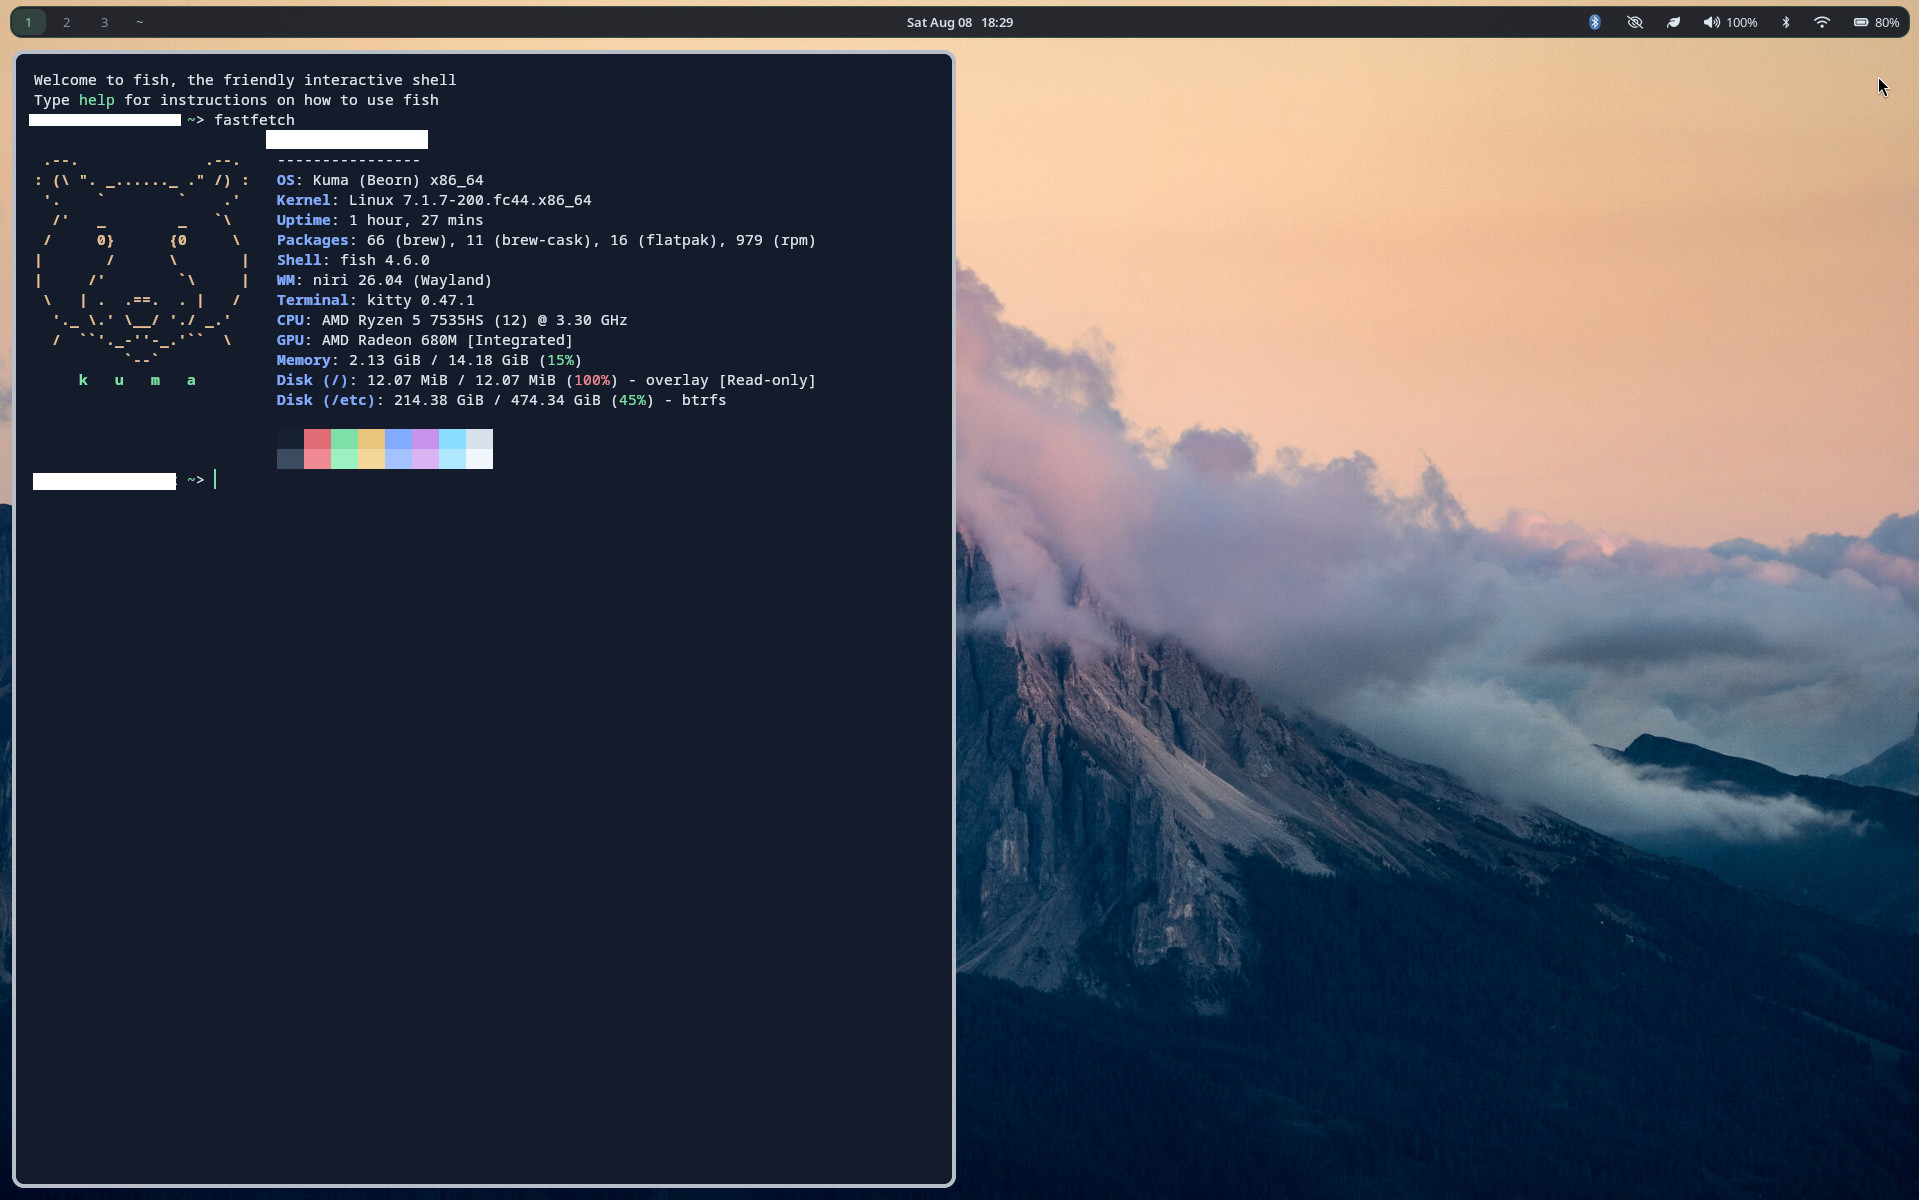
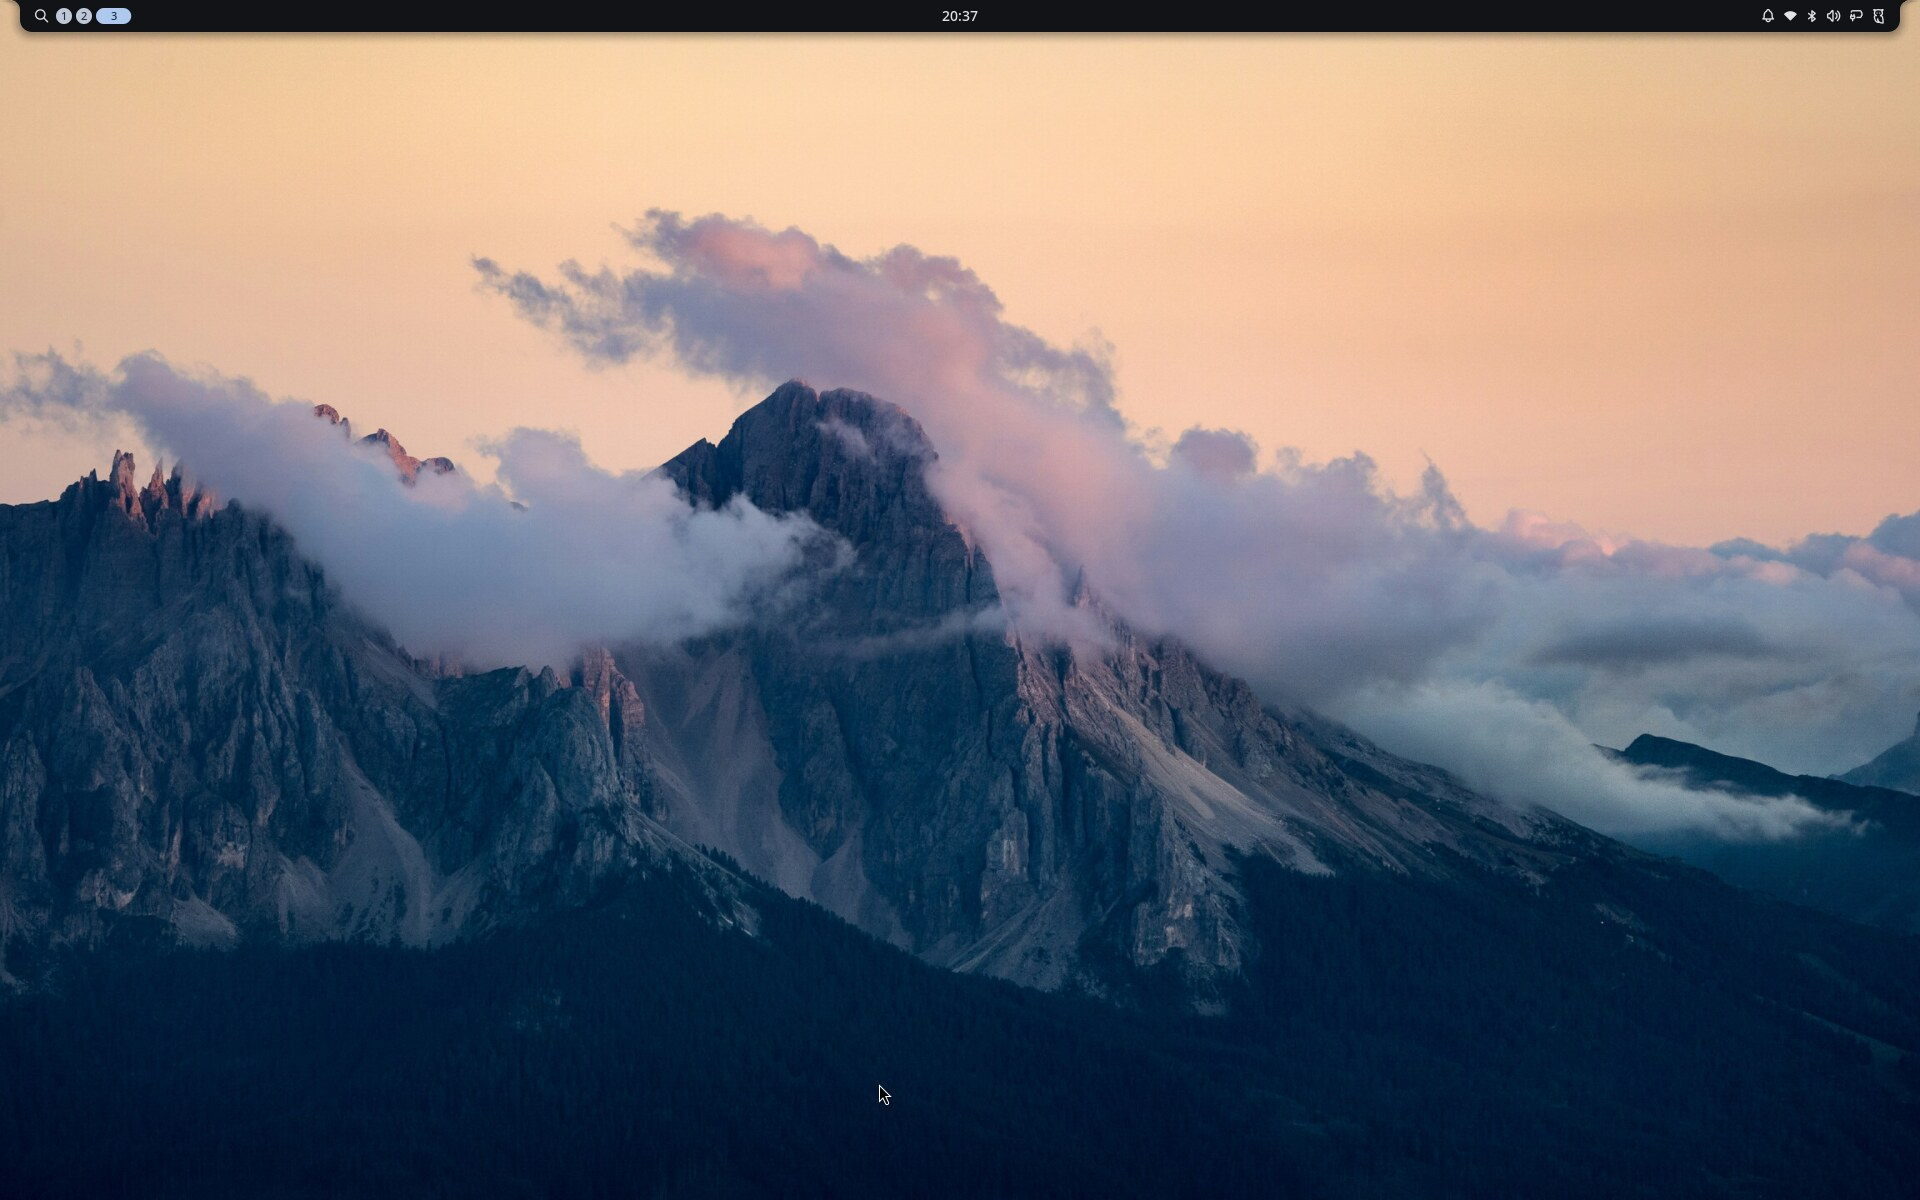
the niri bar carried four glyphs that reported nothing
brightness and the clipboard were controls rather than state, both
already on a key and in the control centre; the session buttons are one
click inside the control centre, whose header carries the same power
glyph; and the wallpaper picker sat between the launcher and the
workspaces, the two things on that side a person actually touches. The
battery kept printing a percentage next to an icon that already fills,
which is the status-line habit the config's own comment argues against.

Removing a widget removes a route, so the two panels that had no other
one keep theirs: Mod+Ctrl+V was already bound to the clipboard, and
Mod+Ctrl+W now opens the wallpaper picker. A test pins both, because
losing a bind here strands a panel with no way back. The control centre
was checked on the booted machine before the session widget went.

The screenshot and its alt text follow the bar that is left.

diff --git a/src/containerfile.rs b/src/containerfile.rs
@@ -1876,19 +1876,25 @@ position = "top"
 thickness = 32
 radius = 12
 margin_ends = 10
-start = [ "launcher", "wallpaper", "workspaces" ]
+# The left group is where you are and what you can start; the wallpaper
+# picker is neither, and it sat between the two things a person touches
+# most. It keeps its panel, bound below.
+start = [ "launcher", "workspaces" ]
 center = [ "clock" ]
+# Notifications, then state, then the control centre, which is where the
+# rest of it lives. Three widgets left the bar in 0.16, each a glyph that
+# reported nothing: brightness, a control rather than a state and already
+# on the media keys; the clipboard, which Mod+Ctrl+V opens; and the
+# session buttons, which are one click into the control centre, whose
+# header carries the same power glyph.
 end = [
     "tray",
     "notifications",
-    "clipboard",
     "network",
     "bluetooth",
     "volume",
-    "brightness",
     "battery",
-    "control-center",
-    "session"
+    "control-center"
 ]
 
 [wallpaper]
@@ -1907,6 +1913,9 @@ fill_mode = "crop"
 show_label = false
 
 [widget.volume]
+show_label = false
+
+[widget.battery]
 show_label = false
 
 # Replaces wlsunset, which ran on the same schedule and temperatures.
@@ -2041,7 +2050,7 @@ const NIRI_LOCK_BIND: &str = r#"Super+Alt+L hotkey-overlay-title="Lock the Scree
 /// Important Hotkeys overlay and generates the label from the action, so
 /// an untitled `spawn` advertises itself as its own command line: the
 /// clipboard bind read as its whole `sh -c` pipeline
-/// on the first screen of a new machine. The three worth naming are
+/// on the first screen of a new machine. The four worth naming are
 /// named, and the media keys are hidden outright — they are printed on
 /// the keyboard, and ten of them crowd out everything worth reading.
 ///
@@ -2059,6 +2068,7 @@ const NIRI_MEDIA_BINDS: &str = r#"    XF86AudioRaiseVolume allow-when-locked=tru
     XF86AudioNext allow-when-locked=true hotkey-overlay-title=null { spawn "playerctl" "next"; }
     XF86AudioPrev allow-when-locked=true hotkey-overlay-title=null { spawn "playerctl" "previous"; }
     Mod+Ctrl+V hotkey-overlay-title="Clipboard History" { spawn "noctalia" "msg" "panel-toggle" "clipboard"; }
+    Mod+Ctrl+W hotkey-overlay-title="Wallpaper" { spawn "noctalia" "msg" "panel-toggle" "wallpaper"; }
     Mod+Alt+R hotkey-overlay-title="Record the Screen" { spawn "/usr/libexec/kuma-record"; }
     Mod+Print hotkey-overlay-title="Screenshot a Region, then Annotate" { spawn "sh" "-c" "grim -g \"$(slurp)\" - | swappy -f -"; }
 "#;
@@ -5403,7 +5413,12 @@ for a in \"$@\"; do printf '%s\\n' \"$a\"; done
 
     #[test]
     fn daily_driver_glue() {
+        // The clipboard and wallpaper widgets both left the bar in 0.16,
+        // so these two binds are the only routes to their panels left in
+        // the image. Losing a bind here strands a panel.
         assert!(NIRI_MEDIA_BINDS.contains(r#"panel-toggle" "clipboard"#));
+        assert!(NIRI_MEDIA_BINDS.contains(r#"panel-toggle" "wallpaper"#));
+        assert!(KUMA_NOCTALIA.contains(r#"start = [ "launcher", "workspaces" ]"#));
         assert!(MIMEAPPS.contains("application/pdf=org.gnome.Papers.desktop"));
         assert!(MIMEAPPS.contains("inode/directory=thunar.desktop"));
         let out = generate(&config("schema_version = 1\n[system]\ndesktop = \"niri\"\n"));

diff --git a/README.md b/README.md
@@ -20,7 +20,7 @@ Fedora supplies the packages and the kernel; kuma decides what goes into the
 image and keeps the running machine matching your file. New to any of these
 words? [The glossary](docs/glossary.md) defines each in a line.
 
-![Kuma running the niri desktop: a scrollable tiling Wayland session with kitty and fastfetch reporting a read-only overlay root](docs/screenshots/niri.jpg)
+![Kuma running the niri desktop: a scrollable tiling Wayland session, with the shell drawing a single bar over three workspaces](docs/screenshots/niri.jpg)
 
 ## Your declaration
 
